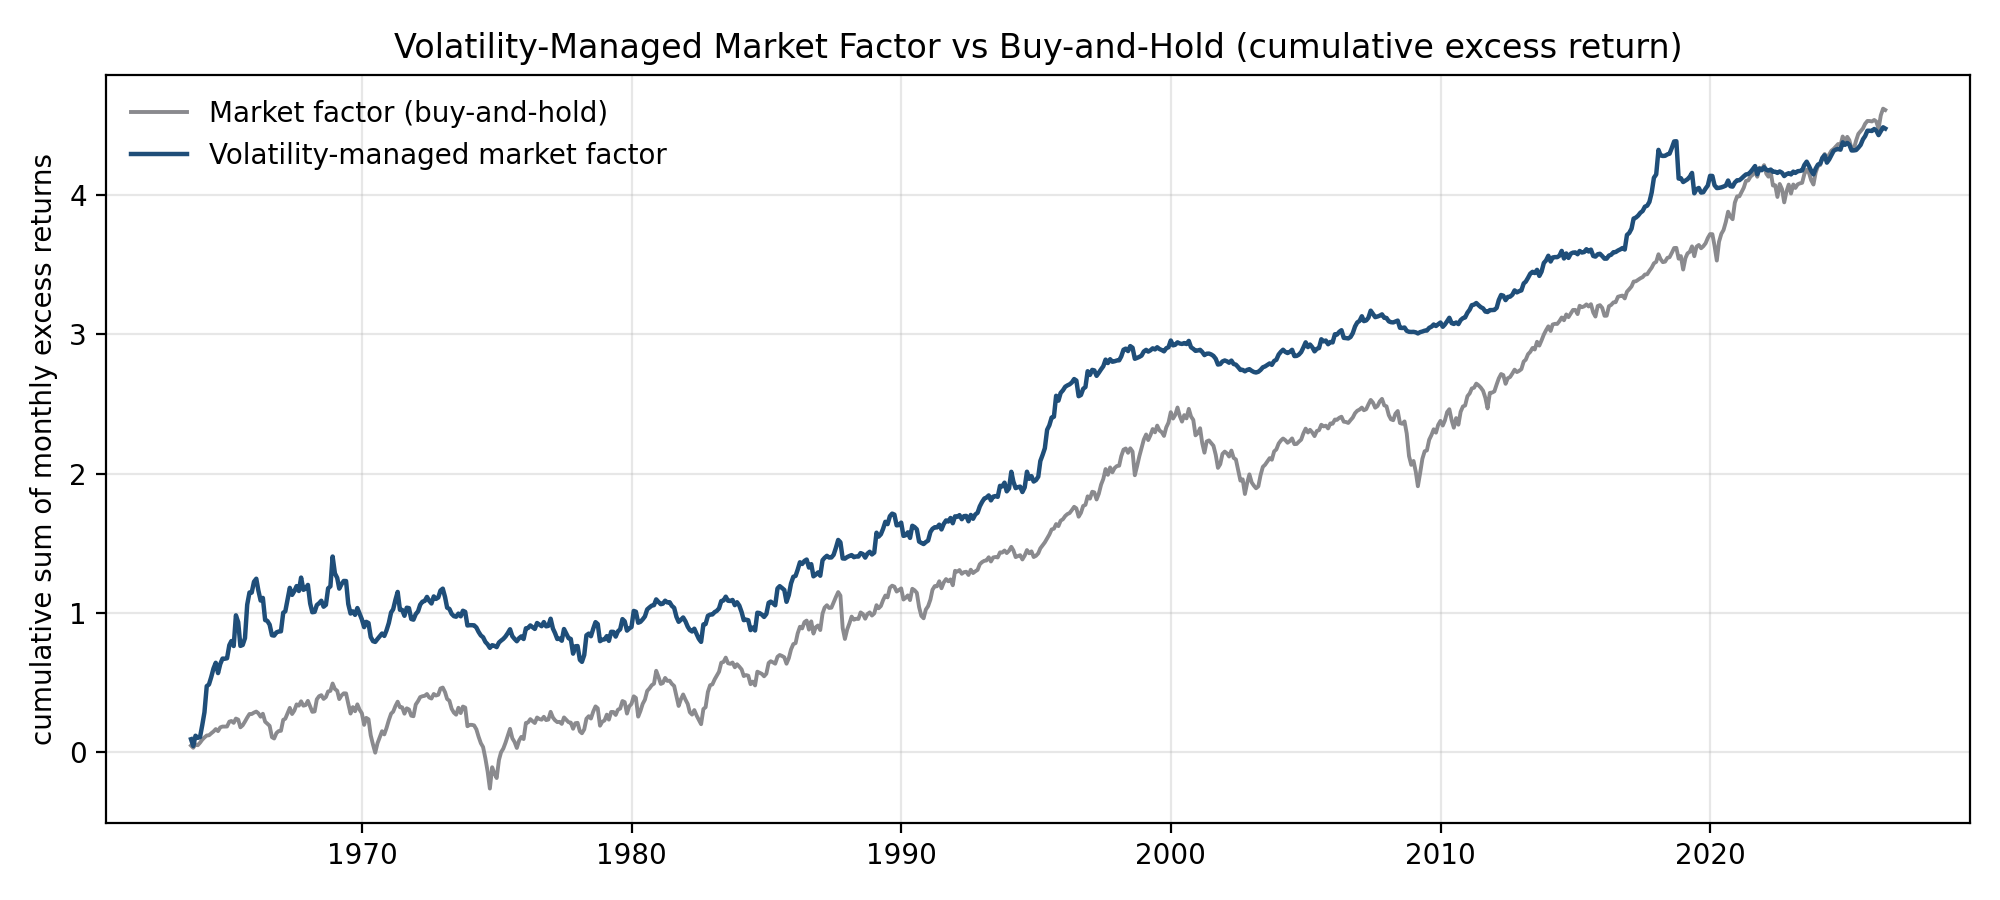
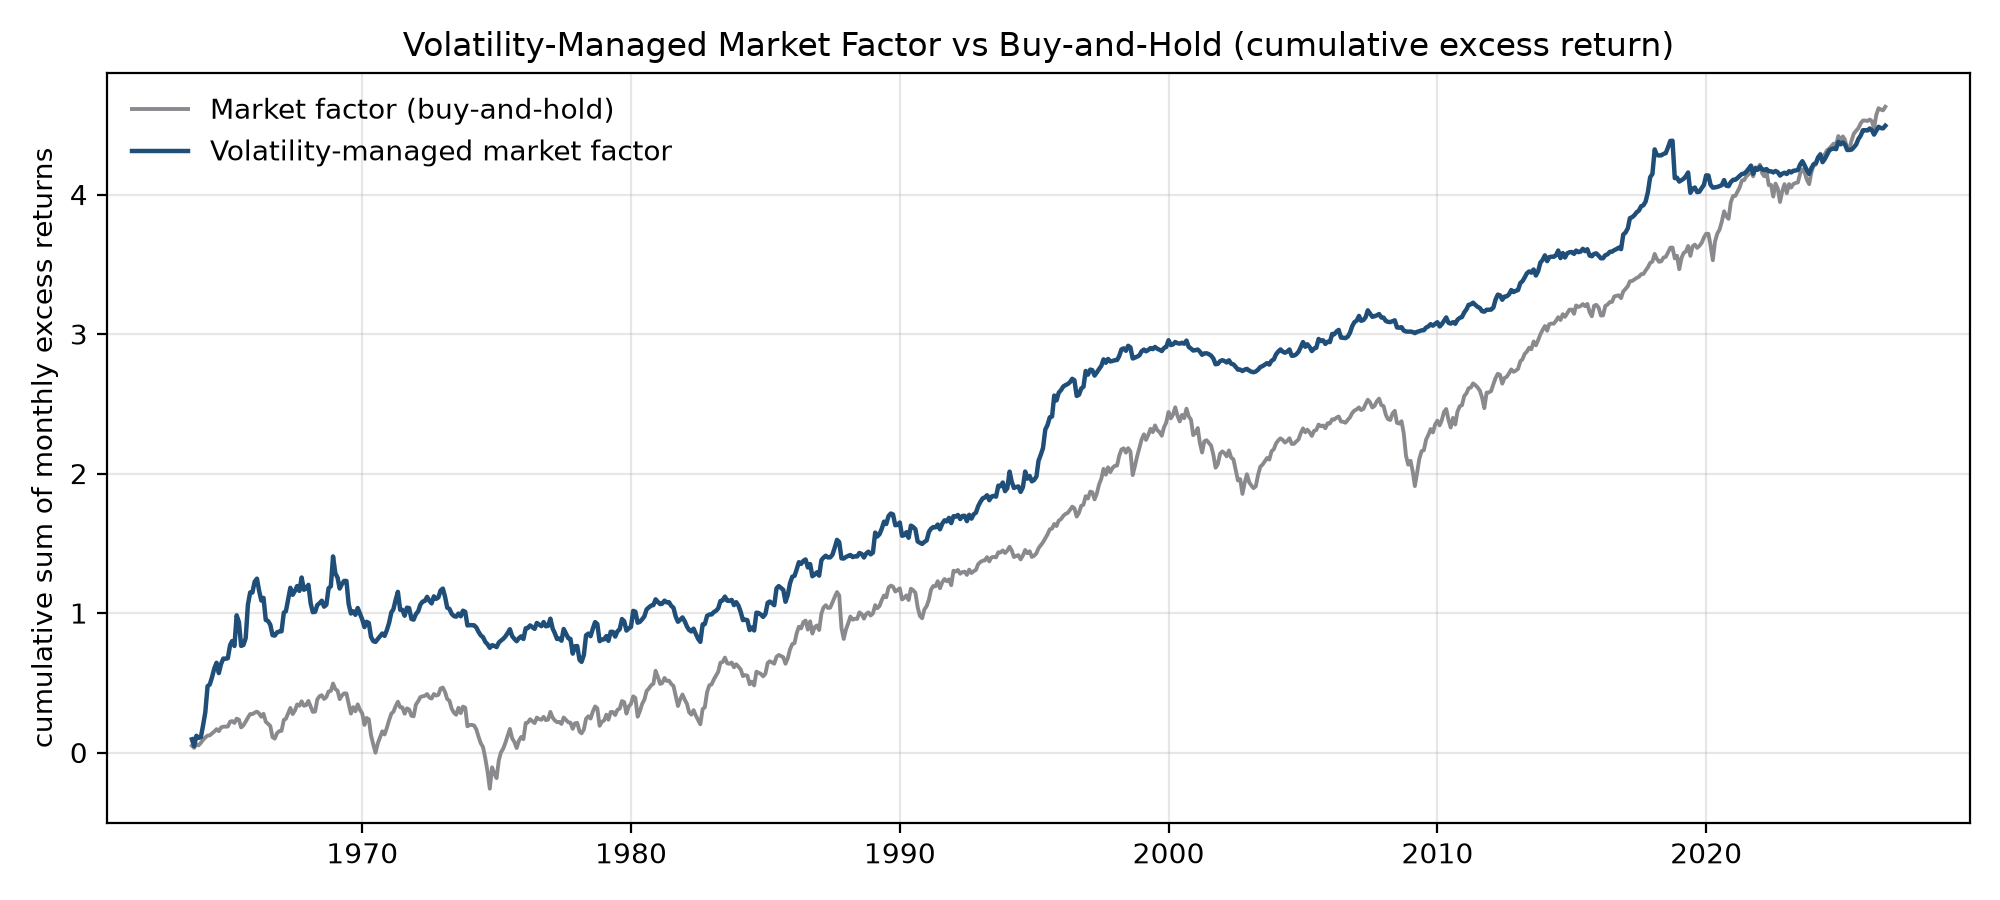
Real-time tests: expanding-window scaling, leverage caps, real-time combination, post-2015 split
src/realtime.py sets every position with data through the prior month only:
the scale constant is estimated on an expanding window (10-year burn-in),
exposure is capped at 1.5x or 2x, and a Cederburg et al. (2020) real-time
mean-variance mix of original and managed factor is formed each month.
Sharpe differences use a 12-month circular block bootstrap with Holm
adjustment across the six factors; subperiods split at 2016, where the
Moreira-Muir sample ends. Also refreshes the original metrics on Ken French
data through August 2026.

diff --git a/src/realtime.py b/src/realtime.py
@@ -1,0 +1,267 @@
+"""
+realtime.py - does volatility management survive when everything is estimated in real time?
+
+The original study (vol_managed_factors.py) follows Moreira and Muir (2017): the timing
+signal 1/RV[m-1] is known in advance, but the scale constant c is fitted on the full
+sample, the weights are uncapped, and the spanning alpha is an in-sample statistic.
+Cederburg, O'Doherty, Wang and Yan (2020) show that these choices matter: most managed
+strategies lose to their unmanaged factor once an investor has to form the combination
+in real time. This module asks the same question for the Fama-French five factors and
+momentum, with every estimate using only data available at the time.
+
+Four checks, each using only information up to month m-1 to set the position in month m:
+
+1. Real-time scaling. c[m-1] = sd(f[1..m-1]) / sd(f[s] / RV[s-1], s <= m-1), an
+   expanding-window version of the full-sample constant.
+2. Leverage caps. Exposure w[m] = c[m-1] / RV[m-1] is capped at 1.5x and 2x (and left
+   uncapped for reference). Barroso and Santa-Clara (2015) cap momentum's scaling too.
+3. Real-time combination (Cederburg et al. 2020). The investor holds the mean-variance
+   mix of the original and managed factor, with weights estimated on an expanding
+   window, rescaled to the original factor's real-time volatility. If volatility timing
+   adds value an investor could have captured, this mix beats the original factor.
+4. Post-sample. Moreira and Muir's data end in 2015; 2016 onward is out of sample for
+   the published result.
+
+Sharpe differences are tested with a circular block bootstrap (12-month blocks), and
+the six factors' p-values are adjusted with Holm's step-down procedure.
+
+Outputs:
+  output/realtime_summary.csv     one row per factor and strategy variant
+  output/realtime_subperiods.csv  spanning alpha and real-time Sharpe by subperiod
+  output/figures/realtime_mom.png cumulative real-time managed vs original momentum
+
+Run: python src/realtime.py
+"""
+from __future__ import annotations
+
+import os
+import sys
+
+import numpy as np
+import pandas as pd
+import statsmodels.api as sm
+
+import matplotlib
+matplotlib.use("Agg")
+import matplotlib.pyplot as plt
+
+sys.path.insert(0, os.path.dirname(os.path.abspath(__file__)))
+from vol_managed_factors import FACTORS, COST_PER_TURN, OUT, FIG, load_factors, to_monthly  # noqa: E402
+
+BURN_IN = 120          # months of history before the first real-time position (10 years)
+CAPS = [None, 2.0, 1.5]
+POST_START = "2016-01-01"   # Moreira and Muir (2017) sample ends in 2015
+N_BOOT = 5000
+BLOCK = 12
+SEED = 20260928
+
+
+# ---------------------------------------------------------------- construction
+
+def realtime_positions(m: pd.DataFrame, cap: float | None, power: float = 1.0) -> pd.DataFrame:
+    """Real-time managed exposure for each month, using data through m-1 only.
+
+    power=1 scales by inverse variance (Moreira-Muir); power=0.5 by inverse volatility.
+    """
+    f = m["ret"].values
+    rv_lag = m["rv"].shift(1).values ** power
+    n = len(f)
+    w = np.full(n, np.nan)
+    for t in range(BURN_IN, n):
+        past = slice(1, t)                     # months with a defined lagged RV, before t
+        raw_past = f[past] / rv_lag[past]
+        c = np.std(f[past], ddof=1) / np.std(raw_past, ddof=1)
+        w[t] = c / rv_lag[t]
+        if cap is not None:
+            w[t] = min(w[t], cap)
+    out = pd.DataFrame({"f": f, "w": w}, index=m.index)
+    out["managed"] = out["w"] * out["f"]
+    return out.iloc[BURN_IN:]
+
+
+def realtime_combination(f: np.ndarray, fm: np.ndarray, min_obs: int = 60) -> np.ndarray:
+    """Cederburg et al. (2020) real-time mix of original f and managed fm.
+
+    Mean-variance weights on (f, fm) from an expanding window, then rescaled so the
+    mix targets the original factor's expanding-window volatility.
+    """
+    n = len(f)
+    out = np.full(n, np.nan)
+    for t in range(min_obs, n):
+        X = np.column_stack([f[:t], fm[:t]])
+        mu = X.mean(axis=0)
+        cov = np.cov(X, rowvar=False)
+        try:
+            w = np.linalg.solve(cov, mu)
+        except np.linalg.LinAlgError:
+            continue
+        port_past = X @ w
+        sd_p = np.std(port_past, ddof=1)
+        if sd_p <= 0:
+            continue
+        scale = np.std(f[:t], ddof=1) / sd_p
+        out[t] = scale * (w[0] * f[t] + w[1] * fm[t])
+    return out
+
+
+# ---------------------------------------------------------------- statistics
+
+def sharpe(x: np.ndarray) -> float:
+    x = x[~np.isnan(x)]
+    return x.mean() / x.std(ddof=1) * np.sqrt(12)
+
+
+def boot_sharpe_diff(a: np.ndarray, b: np.ndarray, rng: np.random.Generator) -> tuple[float, float]:
+    """Sharpe(a) - Sharpe(b) and a two-sided circular-block-bootstrap p-value."""
+    keep = ~(np.isnan(a) | np.isnan(b))
+    a, b = a[keep], b[keep]
+    n = len(a)
+    diff = sharpe(a) - sharpe(b)
+    n_blocks = int(np.ceil(n / BLOCK))
+    starts = rng.integers(0, n, size=(N_BOOT, n_blocks))
+    idx = (starts[:, :, None] + np.arange(BLOCK)[None, None, :]).reshape(N_BOOT, -1)[:, :n] % n
+    A, B = a[idx], b[idx]
+    d = (A.mean(1) / A.std(1, ddof=1) - B.mean(1) / B.std(1, ddof=1)) * np.sqrt(12)
+    # centre the bootstrap distribution on zero to test H0: no difference
+    p = np.mean(np.abs(d - d.mean()) >= abs(diff))
+    return diff, p
+
+
+def max_dd(x: np.ndarray) -> float:
+    c = np.nancumsum(x)
+    return float((c - np.maximum.accumulate(c)).min())
+
+
+def spanning_alpha(fm: np.ndarray, f: np.ndarray) -> tuple[float, float]:
+    keep = ~(np.isnan(fm) | np.isnan(f))
+    res = sm.OLS(fm[keep], sm.add_constant(f[keep])).fit(cov_type="HAC", cov_kwds={"maxlags": 6})
+    return res.params[0] * 12, res.tvalues[0]
+
+
+def holm(pvals: dict[str, float]) -> dict[str, float]:
+    items = sorted(pvals.items(), key=lambda kv: kv[1])
+    k = len(items)
+    adj, running = {}, 0.0
+    for i, (name, p) in enumerate(items):
+        running = max(running, min(1.0, (k - i) * p))
+        adj[name] = running
+    return adj
+
+
+def breakeven_cost(managed: np.ndarray, orig: np.ndarray, w: np.ndarray) -> float:
+    """Cost per unit of leverage turnover (in bps) at which the managed Sharpe falls to the original's."""
+    turn = np.abs(np.diff(w, prepend=w[0]))
+    target = sharpe(orig)
+    lo, hi = 0.0, 0.05
+    if sharpe(managed) <= target:
+        return 0.0
+    for _ in range(60):
+        mid = (lo + hi) / 2
+        if sharpe(managed - mid * turn) > target:
+            lo = mid
+        else:
+            hi = mid
+    return lo * 1e4
+
+
+# ---------------------------------------------------------------- main
+
+def main() -> None:
+    rng = np.random.default_rng(SEED)
+    df = load_factors()
+    print(f"Ken French daily factors: {df.index.min().date()} to {df.index.max().date()}")
+
+    rows, sub_rows, series = [], [], {}
+    p_managed, p_combo = {}, {}
+    for fac in FACTORS:
+        m = to_monthly(df[fac])
+        for cap in CAPS:
+            rt = realtime_positions(m, cap)
+            f, fm, w = rt["f"].values, rt["managed"].values, rt["w"].values
+            turn = np.abs(np.diff(w, prepend=w[0]))
+            net = fm - COST_PER_TURN * turn
+            combo = realtime_combination(f, fm)
+            d_man, p_man = boot_sharpe_diff(net, f, rng)
+            d_com, p_com = boot_sharpe_diff(combo, f, rng)
+            a, t = spanning_alpha(fm, f)
+            label = "uncapped" if cap is None else f"cap {cap:g}x"
+            rows.append({
+                "factor": fac, "variant": label,
+                "start": rt.index[0].strftime("%Y-%m"), "months": len(rt),
+                "sharpe_orig": sharpe(f), "sharpe_managed": sharpe(fm), "sharpe_managed_net": sharpe(net),
+                "sharpe_combo": sharpe(combo),
+                "sharpe_orig_combo_window": sharpe(np.where(np.isnan(combo), np.nan, f)),
+                "maxdd_orig": max_dd(f), "maxdd_managed_net": max_dd(net),
+                "diff_net_vs_orig": d_man, "p_net_vs_orig": p_man,
+                "diff_combo_vs_orig": d_com, "p_combo_vs_orig": p_com,
+                "alpha_ann": a, "alpha_t": t,
+                "avg_leverage": np.nanmean(w), "max_leverage": np.nanmax(w),
+                "share_capped": np.mean(w >= cap - 1e-12) if cap else 0.0,
+                "avg_turnover": turn.mean(),
+                "breakeven_bps": breakeven_cost(fm, f, w),
+            })
+            if cap == 1.5:
+                p_managed[fac], p_combo[fac] = p_man, p_com
+                series[fac] = rt.assign(net=net, combo=combo)
+                for name, mask in [("pre-2016", rt.index < POST_START), ("2016 onward", rt.index >= POST_START)]:
+                    a_s, t_s = spanning_alpha(fm[mask], f[mask])
+                    _, p_s = boot_sharpe_diff(net[mask], f[mask], rng)
+                    _, pc_s = boot_sharpe_diff(combo[mask], f[mask], rng)
+                    sub_rows.append({
+                        "factor": fac, "period": name, "months": int(mask.sum()),
+                        "sharpe_orig": sharpe(f[mask]), "sharpe_managed_net": sharpe(net[mask]),
+                        "sharpe_combo": sharpe(combo[mask]), "alpha_ann": a_s, "alpha_t": t_s,
+                        "p_net_vs_orig": p_s, "p_combo_vs_orig": pc_s,
+                    })
+
+        # robustness: inverse-volatility scaling, 1.5x cap
+        rt = realtime_positions(m, 1.5, power=0.5)
+        f, fm, w = rt["f"].values, rt["managed"].values, rt["w"].values
+        net = fm - COST_PER_TURN * np.abs(np.diff(w, prepend=w[0]))
+        d, p = boot_sharpe_diff(net, f, rng)
+        rows.append({"factor": fac, "variant": "inv-vol, cap 1.5x", "start": rt.index[0].strftime("%Y-%m"),
+                     "months": len(rt), "sharpe_orig": sharpe(f), "sharpe_managed": sharpe(fm),
+                     "sharpe_managed_net": sharpe(net), "diff_net_vs_orig": d, "p_net_vs_orig": p,
+                     "maxdd_orig": max_dd(f), "maxdd_managed_net": max_dd(net),
+                     "avg_leverage": np.nanmean(w), "breakeven_bps": breakeven_cost(fm, f, w)})
+
+    table = pd.DataFrame(rows)
+    adj_m, adj_c = holm(p_managed), holm(p_combo)
+    table["p_net_vs_orig_holm"] = [adj_m[f] if v == "cap 1.5x" else np.nan for f, v in zip(table.factor, table.variant)]
+    table["p_combo_vs_orig_holm"] = [adj_c[f] if v == "cap 1.5x" else np.nan for f, v in zip(table.factor, table.variant)]
+    subs = pd.DataFrame(sub_rows)
+
+    os.makedirs(FIG, exist_ok=True)
+    table.round(4).to_csv(os.path.join(OUT, "realtime_summary.csv"), index=False)
+    subs.round(4).to_csv(os.path.join(OUT, "realtime_subperiods.csv"), index=False)
+
+    pd.set_option("display.width", 200)
+    pd.set_option("display.float_format", lambda x: f"{x:,.3f}")
+    cols = ["factor", "variant", "sharpe_orig", "sharpe_managed_net", "sharpe_orig_combo_window", "sharpe_combo", "p_net_vs_orig",
+            "p_combo_vs_orig", "alpha_t", "maxdd_orig", "maxdd_managed_net", "avg_leverage", "breakeven_bps"]
+    print("\nReal-time volatility management (positions use data through m-1 only):\n")
+    print(table[cols].to_string(index=False))
+    print("\nHolm-adjusted p-values (cap 1.5x): net vs original", {k: round(v, 3) for k, v in adj_m.items()})
+    print("Holm-adjusted p-values (cap 1.5x): combination vs original", {k: round(v, 3) for k, v in adj_c.items()})
+    print("\nSubperiods (cap 1.5x):\n")
+    print(subs.to_string(index=False))
+
+    s = series["Mom"]
+    fig, ax = plt.subplots(figsize=(10, 4.5))
+    ax.plot(s.index, np.nancumsum(s["f"]), color="#8a8a8e", lw=1.4, label="Momentum (original)")
+    ax.plot(s.index, np.nancumsum(s["net"]), color="#1f4e79", lw=1.6, label="Real-time managed, 1.5x cap, net of costs")
+    ax.plot(s.index, np.nancumsum(s["combo"]), color="#c0392b", lw=1.2, ls="--", label="Real-time combination")
+    ax.axvline(pd.Timestamp(POST_START), color="#555", lw=0.8, ls=":")
+    ax.text(pd.Timestamp(POST_START), ax.get_ylim()[1] * 0.95, " Moreira-Muir sample ends", fontsize=8, va="top")
+    ax.set_ylabel("cumulative sum of monthly returns")
+    ax.set_title("Momentum: real-time volatility management")
+    ax.legend(frameon=False, fontsize=9)
+    ax.grid(alpha=0.3)
+    fig.tight_layout()
+    fig.savefig(os.path.join(FIG, "realtime_mom.png"), dpi=200)
+    plt.close(fig)
+    print("\nWrote output/realtime_summary.csv, output/realtime_subperiods.csv, output/figures/realtime_mom.png")
+
+
+if __name__ == "__main__":
+    main()
